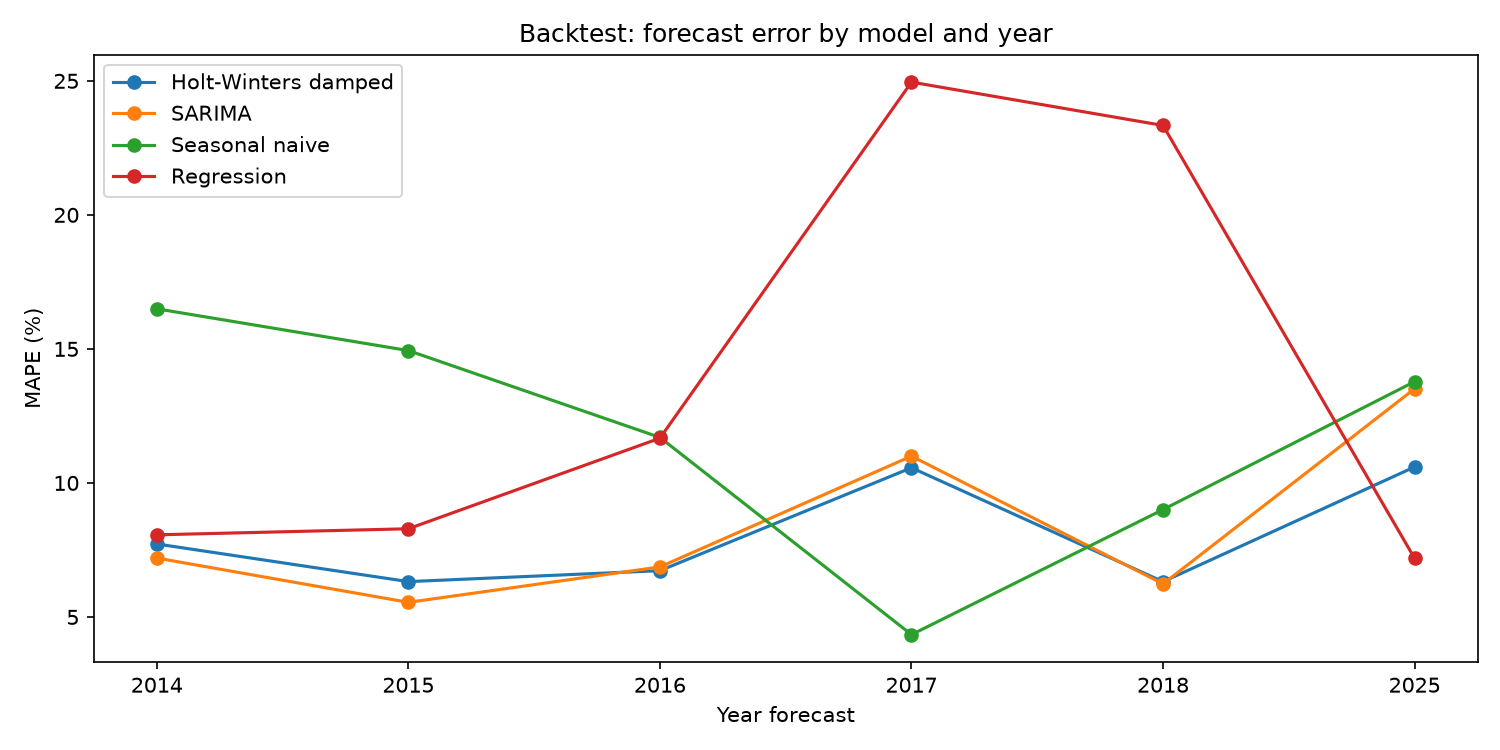
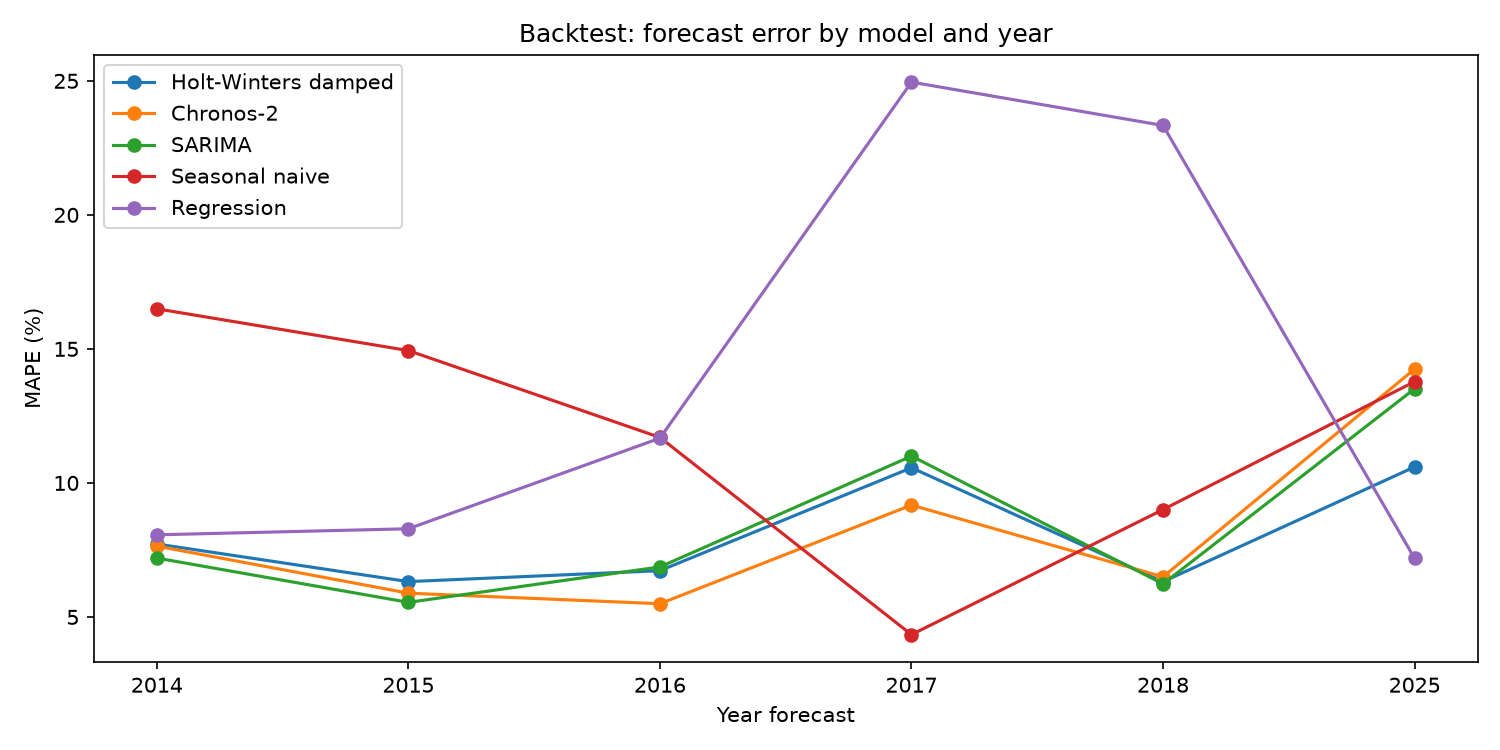
add Chronos-2

diff --git a/tourism/models.py b/tourism/models.py
@@ -65,10 +65,27 @@ def sarima(train, horizon, order=(0, 1, 1), seasonal_order=(1, 1, 1, 12)):
     return pd.Series(np.exp(model.forecast(horizon).values), index=future_index(train, horizon))
 
 
+_chronos_pipeline = None      # loaded once, then reused (loading takes a few seconds)
+
+def chronos2(train, horizon):
+    """Amazon Chronos-2, a pre-trained foundation model. Zero-shot: no training on our data.
+    It reads the history (NaN months included) and returns the median forecast."""
+    global _chronos_pipeline
+    if _chronos_pipeline is None:
+        from chronos import Chronos2Pipeline
+        _chronos_pipeline = Chronos2Pipeline.from_pretrained("amazon/chronos-2", device_map="cpu")
+    context = pd.DataFrame({"id": "sri_lanka", "timestamp": train.index, "target": train.values})
+    prediction = _chronos_pipeline.predict_df(
+        context, prediction_length=horizon, quantile_levels=[0.1, 0.5, 0.9],
+        id_column="id", timestamp_column="timestamp", target="target")
+    return pd.Series(prediction["0.5"].values, index=future_index(train, horizon))
+
+
 # name -> function, used by the comparison scripts
 MODELS = {
     "Seasonal naive": seasonal_naive,
     "Regression": regression,
     "Holt-Winters damped": holt_winters,
     "SARIMA": sarima,
+    "Chronos-2": chronos2,
 }
